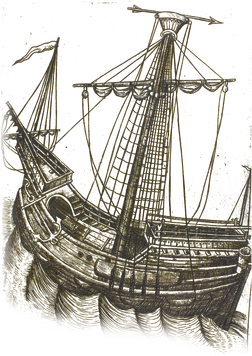
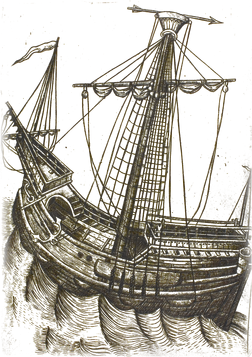
feat(packs): Master W's ship stays ink by a visual pass, its waves widened (#111)

diff --git a/docs/master-w-ship/README.md b/docs/master-w-ship/README.md
@@ -1,0 +1,24 @@
+# Master W's ship, `ship-w-key`: ink kept, the waves widened (#111)
+
+`ship-w-key` of the `scanned` pack. The scan is Master W's engraving of a ship
+([Art Institute of Chicago 27881](https://www.artic.edu/artworks/27881), 2139 px wide); crop (10,20)-(2110,2990).
+
+![raw crop, the ink sprite, the patch candidate; map size below, 3x above, each multiplied onto parchment](steps.png)
+
+`steps.png`: left to right, the raw crop, the ink sprite (the one shipped) and the patch candidate, each multiplied
+onto parchment; the top row is 3x, the bottom row the width the map draws them (84 px).
+`ship-w-key.raw.png` and `.key.png` (both shrunk to 700 px wide), with `.cut.png`, are the images behind the ink sprite; `.patch.cut.png` is the candidate.
+
+**Call: keep `ink`** (undo: `key: 'patch', paper: '#d2c9bb'` on the sprite, with no `level`, `bolden` or `dark`). The plate
+is ink alone on paper, and the visual pass found nothing the ink key loses that is worth keeping. The patch candidate
+(paper `#d2c9bb`, measured from the open sky, the whole crop feathered) makes the sprite worse: the engraved lines come
+out lighter and greyer at map size, and the plate's uneven paper tone shows as a faint rectangle round the ship on parchment.
+
+**Edge.** The old mask cut the foot of the crop on a diagonal, so the waves round the hull faded away on the left. Those
+waves are the ship's water, so the mask is now an inset rectangle (feather 40 px) that trims only the plate mark at the
+crop's edge; the waves reach the foot of the sprite.
+
+Absent from the sprite, and why:
+
+- the paper's mottled tone and foxing across the sky: surround, and ink alone is what is wanted here.
+- the plate mark and the grey stain at the crop's left edge: not the ship's; the inset mask cuts them.
